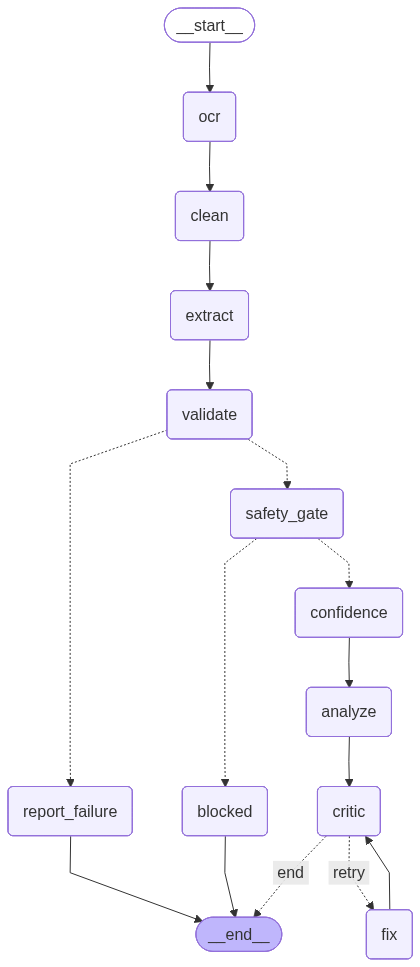
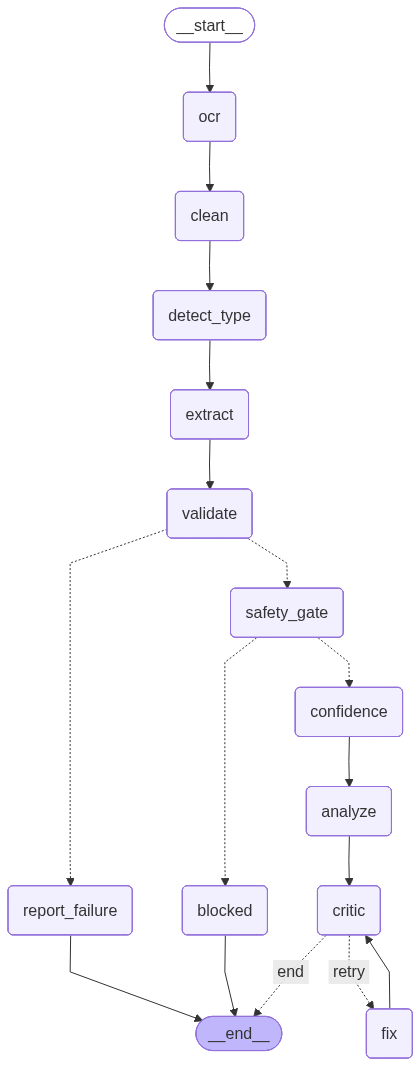
chore: update api service and architecture diagram

diff --git a/src/services/api.js b/src/services/api.js
@@ -1,7 +1,7 @@
 import axios from 'axios';
 import useAppStore from '../store/useAppStore';
 
-const BASE_URL = 'http://127.0.0.1:8000';
+const BASE_URL = import.meta.env.VITE_API_URL;
 
 const api = axios.create({
   baseURL: BASE_URL,
